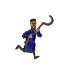
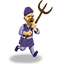
Added homestead and new building and unit art

Changed region(s): [[0.1562, 0.0, 0.8438, 1.0]]

diff --git a/js/entities/buttons/building.js b/js/entities/buttons/building.js
@@ -10,6 +10,7 @@ Main.Building = Main.Button.extend(
     type: "", // type of building
     unitType: "", // type of unit this building creates
 	owner: "neutral", // contains owner information
+    size: 0, // contains size of building
 	flag: null, // contains image object for the flag
 	currentCapacity: 20, // capacity of this building
 	selected: false, // whether this building is selected
@@ -24,7 +25,9 @@ Main.Building = Main.Button.extend(
 	{
         this.type = type;
         this.owner = owner;
-        this.imageObject = new Main.Image(0, 0, this.getImage(), 64, 64);
+        this.size = Main.UnitConfig.buildingSizes[type];
+        this.imageObject = new Main.Image(0, 0, this.getImage(), this.size,
+                                          this.size);
         this.id = id;
         if (capacity != null) {
             this.currentCapacity = capacity;
@@ -120,8 +123,10 @@ Main.Building = Main.Button.extend(
 	// fights with the arriving Army if they losethe building changes from owner
 	defend: function(owner, type, amount)
 	{
-        me.game.add(new Main.Effect(this.pos.x - this.width/2,
-                                    this.pos.y - this.height/2),
+        // temporary hack to get it in the right place
+        var img_size = 128;
+        me.game.add(new Main.Effect(this.pos.x + (this.size - img_size)/2,
+                                    this.pos.y + (this.size - img_size)/2),
                     100);
 		// TODO: add actually battleResult system;
 		var battleResult = this.fight(owner, type, amount);

diff --git a/data/levelData.js b/data/levelData.js
@@ -48,8 +48,8 @@ levelData = [
         enemyTechLevel: 0,
     },
     {
-        name: "tourney",
-        infotext: "a map where everyone has equal chances",
+        name: "tourney-duel",
+        infotext: "a map where everyone has equal chances - duel mode",
         background: "bg",
         buildings: [
             {type:"farm", x: 100, y: 150, owner: "user"},
@@ -65,6 +65,26 @@ levelData = [
 
             {type:"farm", x: 600, y: 150, owner: "comp1"},
             {type:"farm", x: 600, y: 250, owner: "comp1"},
+        ],
+        startResources: 0,
+        enemyTechLevel: 0,
+    },
+    {
+        name: "homestead",
+        infotext: "Map for testing the homestead",
+        background: "bg",
+        buildings: [
+            {type:"homestead", x: 50, y: 250, owner: "user"},
+
+            {type:"farm", x: 200, y: 150},
+            {type:"farm", x: 200, y: 450},
+
+            {type:"farm", x: 425, y: 300, capacity: 2},
+
+            {type:"farm", x: 650, y: 150},
+            {type:"farm", x: 650, y: 450},
+
+            {type:"homestead", x: 800, y: 250, owner: "comp1"},
         ],
         startResources: 0,
         enemyTechLevel: 0,

diff --git a/js/resources.js b/js/resources.js
@@ -16,11 +16,14 @@ resources = [
     {name: "comp3_farm", type: "image",
      src: "data/img/buildings/comp3_farm.png"},
 
+    {name: "user_homestead", type: "image",
+     src: "data/img/buildings/user_homestead.png"},
+    {name: "comp1_homestead", type: "image",
+     src: "data/img/buildings/comp1_homestead.png"},
+
     {name: "building_selection", type: "image",
      src: "data/img/buildings/building_selection.png"},
 
-    {name: "neutral_farmer", type: "image",
-     src: "data/img/armies/neutral_farmer.png"},
     {name: "user_farmer", type: "image",
      src: "data/img/armies/user_farmer.png"},
     {name: "comp1_farmer", type: "image",
@@ -29,6 +32,11 @@ resources = [
      src: "data/img/armies/comp2_farmer.png"},
     {name: "comp3_farmer", type: "image",
      src: "data/img/armies/comp3_farmer.png"},
+
+    {name: "user_knight", type: "image",
+     src: "data/img/armies/user_knight.png"},
+    {name: "comp1_knight", type: "image",
+     src: "data/img/armies/comp1_knight.png"},
 
     {name: "battle_animation", type: "image",
      src: "data/img/armies/battle_animation.png"},

diff --git a/js/unit_config.js b/js/unit_config.js
@@ -28,9 +28,17 @@ Main.UnitConfig =
         },
     ],
 
-    unitForBuilding: {
+    unitForBuilding:
+    {
         farm: "farmer",
         homestead: "knight",
         church: "monk"
-    }
+    },
+
+    buildingSizes:
+    {
+        farm: 64,
+        homestead: 128,
+        church: 64
+    },
 }

diff --git a/js/main.js b/js/main.js
@@ -47,7 +47,7 @@ var Main =
         me.input.bindMouse(me.input.mouse.LEFT, 1000);
 
         // Start the game.
-        me.state.change(me.state.PLAY, levelData[2]);
+        me.state.change(me.state.PLAY, levelData[3]);
     },
 
     levelScreen: null, // reference to the levelScreen
